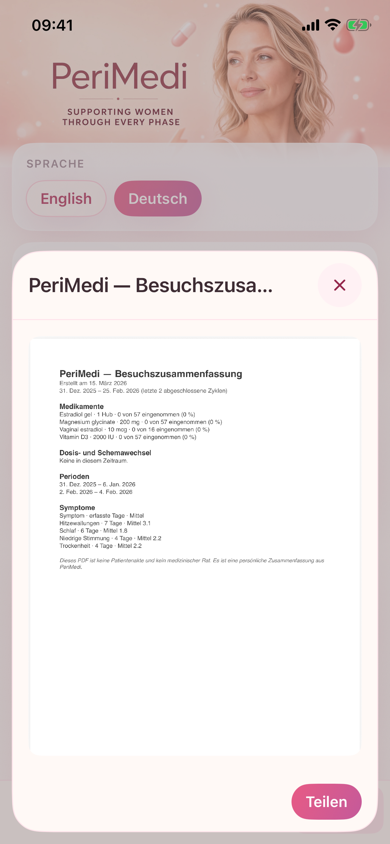
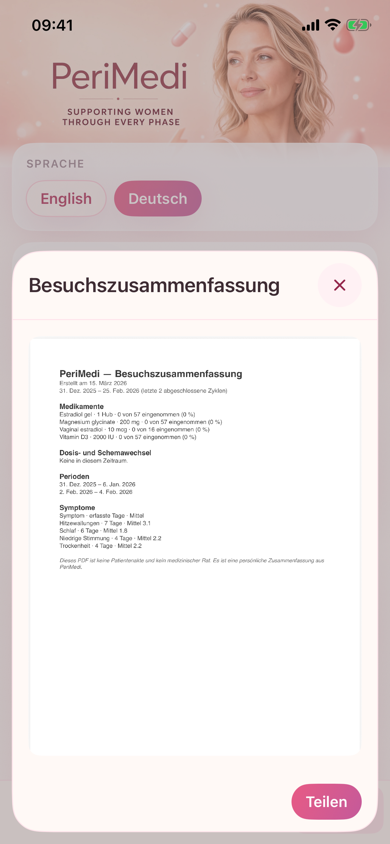
Visit preview: short sheet title, Wähle.
German sheet uses Besuchszusammenfassung so it is not clipped. The PDF
keeps PeriMedi — Besuchszusammenfassung. Picker copy is Wähle.

Changed region(s): [[0.0923, 0.3081, 0.7077, 0.3697]]

diff --git a/ios/PeriMedi/App/L10n.swift b/ios/PeriMedi/App/L10n.swift
@@ -607,7 +607,7 @@ enum L10n {
         "visit.disclaimer": "Dieses PDF ist keine Patientenakte und kein medizinischer Rat. Es ist eine persönliche Zusammenfassung aus PeriMedi.",
         "visit.share": "Teilen",
         "visit.range.sheet": "Welche Zyklen?",
-        "visit.range.hint": "Wähl einen abgeschlossenen Zyklus. Du kannst den davor einbeziehen.",
+        "visit.range.hint": "Wähle einen abgeschlossenen Zyklus. Du kannst den davor einbeziehen.",
         "visit.range.previous": "Vorherigen Zyklus einbeziehen",
         "visit.range.continue": "Weiter",
         "visit.range.completed": "Abgeschlossener Zyklus",

diff --git a/ios/PeriMedi/Features/More/DoctorVisitPreviewSheet.swift b/ios/PeriMedi/Features/More/DoctorVisitPreviewSheet.swift
@@ -9,7 +9,7 @@ struct DoctorVisitPreviewSheet: View {
 
     var body: some View {
         DialogChrome(
-            title: app.t("visit.title"),
+            title: app.t("more.visitTitle"),
             identifier: A11yID.visitPdfPreview,
             onClose: { app.closeDialog() }
         ) {
